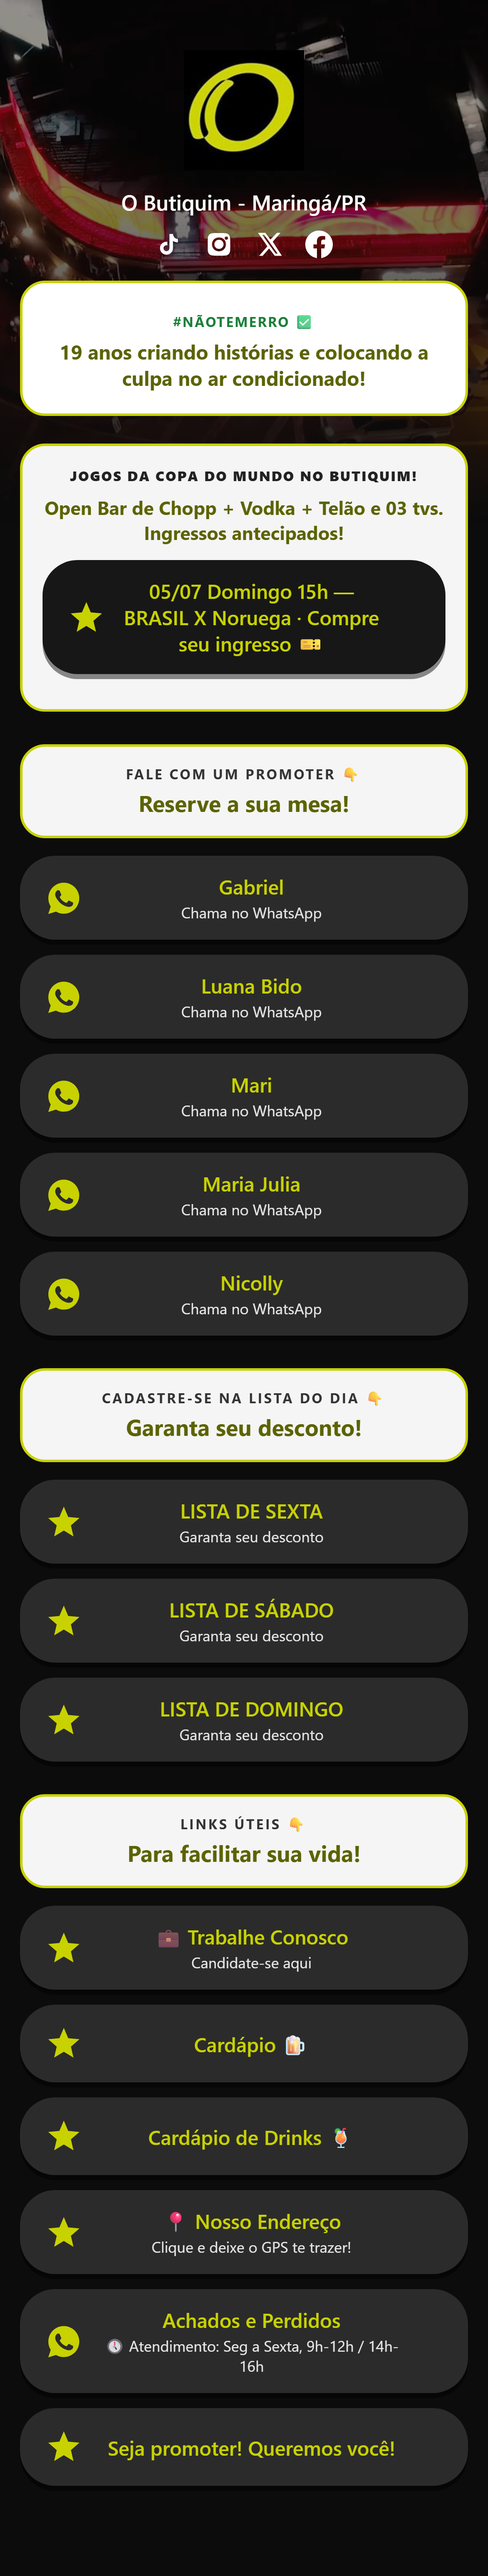
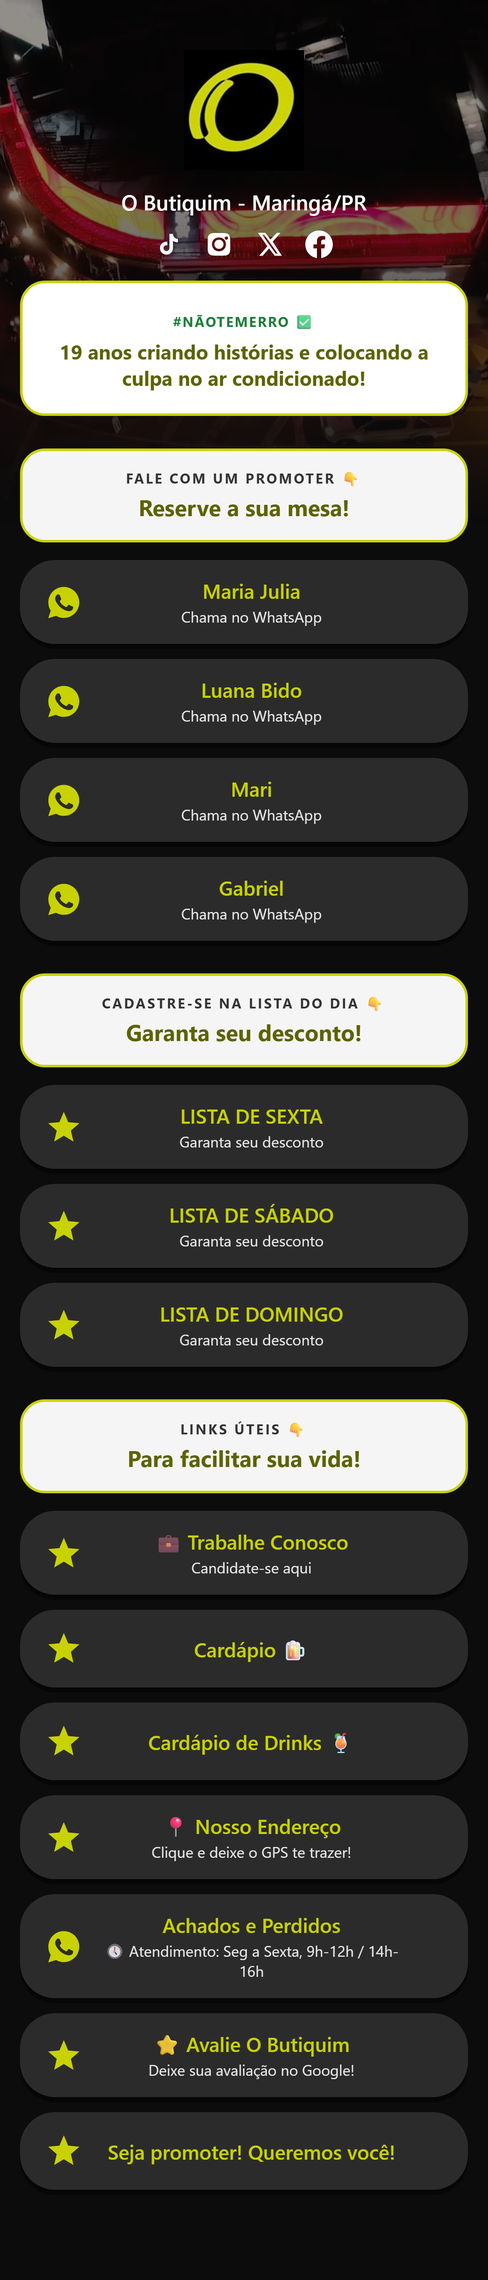
feat(links): troca Trabalhe Conosco + Seja nosso Promoter pelos forms do QG; efeito nos botões de lista
- linksUteis: Trabalhe Conosco aponta pro form nativo do QG (era bit.ly externo);
  novo botão "Seja nosso Promoter" logo abaixo, pro form vagas-de-promoter do QG
- outros: removido o link antigo de promoter (Google Forms), substituído pelo acima
- botões da lista do dia (sexta/sábado/domingo) ganham brilho pulsante + faixa de
  luz varrendo, delay escalonado por botão, respeitando prefers-reduced-motion

Inclui também ajuste de rotação de promoters já pronto e testado (Gabriel fixo no
fim via fixoNoFinal) e novo link "Avalie O Butiquim" em linksUteis.

diff --git a/config.js b/config.js
@@ -16,12 +16,12 @@
     ],
 
     // telefone: E.164 sem "+" (ex: "5544984232574"). Vazio = fora da rotação.
+    // fixoNoFinal: true = não entra no giro semanal, fica sempre no fim da lista.
     promoters: [
-      { nome: 'Gabriel', telefone: '554491749173', ativo: true },
       { nome: 'Luana Bido', telefone: '554498766957', ativo: true },
       { nome: 'Mari', telefone: '554497077075', ativo: true },
       { nome: 'Maria Julia', telefone: '554498708463', ativo: true },
-      { nome: 'Nicolly', telefone: '554488274796', ativo: true },
+      { nome: 'Gabriel', telefone: '554491749173', ativo: true, fixoNoFinal: true },
     ],
     promotersTitulo: 'FALE COM UM PROMOTER 👇',
     promotersSubtitulo: 'Reserve a sua mesa!',
@@ -51,15 +51,17 @@
     linksUteisTitulo: 'LINKS ÚTEIS 👇',
     linksUteisSubtitulo: 'Para facilitar sua vida!',
     linksUteis: [
-      { rotulo: '💼 Trabalhe Conosco', sub: 'Candidate-se aqui', url: 'https://bit.ly/HaVagas-Cadastre-Se', icone: 'star' },
+      { rotulo: '💼 Trabalhe Conosco', sub: 'Candidate-se aqui', url: 'https://orafamartinelli.com.br/qg/f/trabalhe-conosco/', icone: 'star' },
+      { rotulo: '🎉 Seja nosso Promoter', sub: 'Candidate-se aqui', url: 'https://orafamartinelli.com.br/qg/f/vagas-de-promoter/', icone: 'star' },
       { rotulo: 'Cardápio 🍺', sub: '', url: 'https://drive.google.com/file/d/1AkwMqIjLH_gcTKWuq96oDVP0RCGZabe8/view?usp=sharing', icone: 'star' },
       { rotulo: 'Cardápio de Drinks 🍹', sub: '', url: 'https://drive.google.com/file/d/1rJ-2RU4TsByUunz-JG_6L12d90WC1plU/view?usp=sharing', icone: 'star' },
       { rotulo: '📍 Nosso Endereço', sub: 'Clique e deixe o GPS te trazer!', url: 'https://goo.gl/maps/244NjK7F7C6eKkhs5', icone: 'star' },
       { rotulo: 'Achados e Perdidos', sub: '🕔 Atendimento: Seg a Sexta, 9h-12h / 14h-16h', url: 'https://api.whatsapp.com/send?phone=554498006859&text=Ol%C3%A1,%20gostaria%20de%20saber%20sobre%20achados%20e%20perdidos', icone: 'whatsapp' },
+      { rotulo: '⭐ Avalie O Butiquim', sub: 'Deixe sua avaliação no Google!', url: 'https://bit.ly/AVALIACAOGOOGLE', icone: 'star' },
     ],
 
-    outros: [
-      { rotulo: 'Seja promoter! Queremos você!', sub: '', url: 'https://forms.gle/vn1Ypk3VLekEuwCU9', icone: 'star' },
-    ],
+    // vazio de propósito: o link antigo de promoter (Google Forms) foi substituído
+    // pelo botão "Seja nosso Promoter" em linksUteis (formulário nativo do QG, 29/07).
+    outros: [],
   };
 });

diff --git a/styles.css b/styles.css
@@ -58,6 +58,48 @@ body {
 .botao .rotulo { color: var(--verde); font-size: 16px; font-weight: 600; }
 .botao .sub { color: #e6e6e6; font-size: 12px; margin-top: 2px; }
 
+/* botões da lista do dia — brilho pulsante + faixa de luz varrendo, pra chamar
+   mais atenção que o resto da página (pedido do Rafa 29/07). Delay escalonado por
+   botão pra não pulsarem todos junto (fica mais orgânico). */
+.grupo-listas .botao {
+  position: relative;
+  overflow: hidden;
+  border: 1.5px solid rgba(200, 210, 0, 0.4);
+  animation: pulsoLista 2.4s ease-in-out infinite;
+}
+.grupo-listas .botao::after {
+  content: "";
+  position: absolute;
+  top: 0;
+  left: -60%;
+  width: 40%;
+  height: 100%;
+  background: linear-gradient(115deg, transparent, rgba(255, 255, 255, 0.4), transparent);
+  transform: skewX(-20deg);
+  animation: brilhoVarre 3.2s ease-in-out infinite;
+}
+.grupo-listas .botao:nth-child(1) { animation-delay: 0s; }
+.grupo-listas .botao:nth-child(1)::after { animation-delay: 0.3s; }
+.grupo-listas .botao:nth-child(2) { animation-delay: 0.6s; }
+.grupo-listas .botao:nth-child(2)::after { animation-delay: 0.9s; }
+.grupo-listas .botao:nth-child(3) { animation-delay: 1.2s; }
+.grupo-listas .botao:nth-child(3)::after { animation-delay: 1.5s; }
+@keyframes pulsoLista {
+  0%, 100% { box-shadow: 0 4px 0 rgba(0, 0, 0, 0.45), 0 0 0 rgba(200, 210, 0, 0); }
+  50% { box-shadow: 0 4px 0 rgba(0, 0, 0, 0.45), 0 0 20px 3px rgba(200, 210, 0, 0.5); }
+}
+@keyframes brilhoVarre {
+  0% { left: -60%; }
+  55% { left: 140%; }
+  100% { left: 140%; }
+}
+@media (prefers-reduced-motion: reduce) {
+  .grupo-listas .botao,
+  .grupo-listas .botao::after {
+    animation: none;
+  }
+}
+
 .bloco-temp {
   border: 2px solid var(--verde); border-radius: 20px; background: rgba(255,255,255,0.96);
   text-align: center; padding: 16px; margin: 22px 0;

diff --git a/rotacao.js b/rotacao.js
@@ -15,10 +15,12 @@
 
   function ordemRotacao(promoters, agoraMs) {
     const ativos = promoters.filter((p) => p.ativo);
-    const k = ativos.length;
-    if (k === 0) return [];
+    const giram = ativos.filter((p) => !p.fixoNoFinal);
+    const fixos = ativos.filter((p) => p.fixoNoFinal);
+    const k = giram.length;
+    if (k === 0) return fixos;
     const offset = ((numeroSemana(agoraMs) % k) + k) % k;
-    return ativos.map((_, i) => ativos[(offset + i) % k]);
+    return giram.map((_, i) => giram[(offset + i) % k]).concat(fixos);
   }
 
   function blocoVisivel(bloco, agoraMs) {

diff --git a/app.js b/app.js
@@ -55,7 +55,9 @@
   }
 
   html += `<div class="secao-titulo"><div class="mini">${esc(CONFIG.listasTitulo)}</div><div class="grande">${esc(CONFIG.listasSubtitulo)}</div></div>`;
+  html += `<div class="grupo-listas">`;
   for (const l of CONFIG.listas) html += botao(l.url, l.rotulo, l.sub, 'star');
+  html += `</div>`;
 
   html += `<div class="secao-titulo"><div class="mini">${esc(CONFIG.linksUteisTitulo)}</div><div class="grande">${esc(CONFIG.linksUteisSubtitulo)}</div></div>`;
   for (const u of CONFIG.linksUteis) html += botao(u.url, u.rotulo, u.sub, u.icone);
